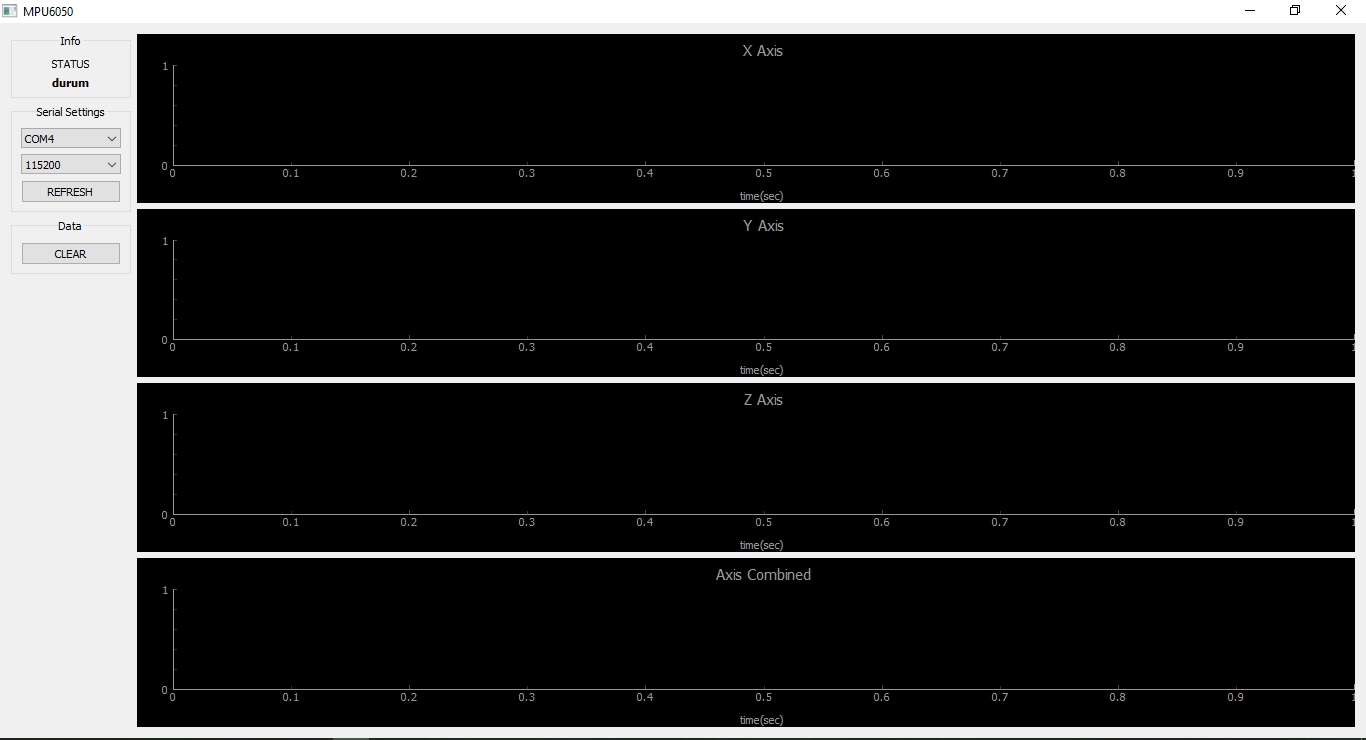
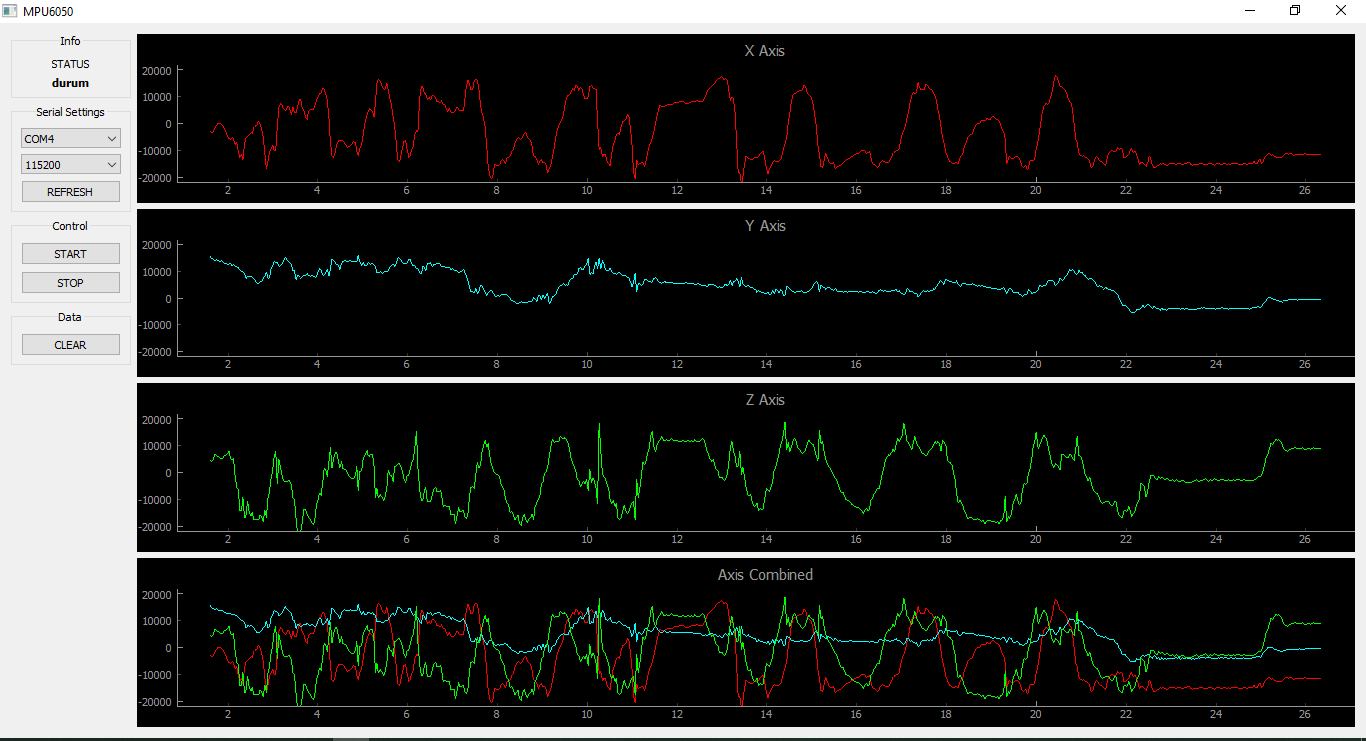
running version
to do list
add x,y,z and combine axis auto pan button
fix clear data button

diff --git a/main.py b/main.py
@@ -1,10 +1,12 @@
 import sys
 import port_lister
+import time
 from port import PortReader
 from PyQt5.QtWidgets import *
 from PyQt5.QtCore import *
 import pyqtgraph as pg
 min_width=120
+port=0
 serial_port_list=list()
 baud_rate_list=["110", "300", "600", "1200", "2400", "4800", "9600", "14400", "19200", "38400", "57600", "115200", "128000", " 256000"]
 class GuiPencere(QWidget):
@@ -49,6 +51,19 @@ class GuiPencere(QWidget):
 		self.GBSerialLayout.addWidget(self.SerialBaudrateCombo)
 		self.GBSerialLayout.addWidget(self.SerialRefreshButon)
 
+		self.GBConnect=QGroupBox("Control")
+		self.GBConnect.setAlignment(Qt.AlignCenter)
+		self.GBConnectLayout=QVBoxLayout(self)
+		self.GBConnect.setLayout(self.GBConnectLayout)
+		self.GBConnect.setMaximumWidth(min_width)
+		self.GBConnect.setMinimumWidth(min_width)
+		self.SerialConnectButon=QPushButton("START")
+		self.SerialConnectButon.clicked.connect(self.port_open_starter)
+		self.SerialDisconnectButon=QPushButton("STOP")
+		self.SerialDisconnectButon.clicked.connect(close_serial_port)
+		self.GBConnectLayout.addWidget(self.SerialConnectButon)
+		self.GBConnectLayout.addWidget(self.SerialDisconnectButon)
+
 		self.GBClear=QGroupBox("Data")
 		self.GBClear.setAlignment(Qt.AlignCenter)
 		self.GBClearLayout=QVBoxLayout(self)
@@ -58,14 +73,12 @@ class GuiPencere(QWidget):
 		self.ClearButon=QPushButton("CLEAR")
 		self.GBClearLayout.addWidget(self.ClearButon)
 
-
-
-
 		self.mainLayout.addLayout(self.vLayoutL)
 		self.mainLayout.addLayout(self.vLayoutR)
 
 		self.vLayoutL.addWidget(self.GBInfo)
 		self.vLayoutL.addWidget(self.GBSerial)
+		self.vLayoutL.addWidget(self.GBConnect)
 		self.vLayoutL.addWidget(self.GBClear)
 		self.vLayoutL.addStretch(1)
 
@@ -74,15 +87,15 @@ class GuiPencere(QWidget):
 		self.plotter3=pg.PlotWidget()
 		self.plotter4=pg.PlotWidget()
 
+		self.plotter1.setYRange(-20000,20000)
+		self.plotter2.setYRange(-20000,20000)
+		self.plotter3.setYRange(-20000,20000)
+		self.plotter4.setYRange(-20000,20000)
+
 		self.plotter1.setTitle("X Axis")
 		self.plotter2.setTitle("Y Axis")
 		self.plotter3.setTitle("Z Axis")
 		self.plotter4.setTitle("Axis Combined")
-
-		self.plotter1.setLabel("bottom","time(sec)")
-		self.plotter2.setLabel("bottom","time(sec)")
-		self.plotter3.setLabel("bottom","time(sec)")
-		self.plotter4.setLabel("bottom","time(sec)")
 
 		self.vLayoutR.addWidget(self.plotter1)
 		self.vLayoutR.addWidget(self.plotter2)
@@ -107,9 +120,6 @@ class GuiPencere(QWidget):
 
 		pg.setConfigOptions(antialias=True)
 
-		#self.timer=QTimer()
-		#self.timer.timeout.connect(self.cycle)
-		#self.timer.start(33)
 
 	def cycle(self):
 		[timeArray,AcXArray,AcYArray,AcZArray] = port.takeNpArray()
@@ -125,17 +135,26 @@ class GuiPencere(QWidget):
 		self.SerialPortCombo.clear()
 		self.SerialPortCombo.addItems(get_port_list())
 
+	def port_open_starter(self):
+		open_serial_port(self.SerialPortCombo.currentText(),int(self.SerialBaudrateCombo.currentText()))
+		self.timer=QTimer()
+		self.timer.timeout.connect(self.cycle)
+		self.timer.start(33)
+
 
 def get_port_list():
 	return port_lister.serial_ports()
 
+
+def open_serial_port(com,baudrate):
+	global port
+	port=PortReader(com,baudrate)
+
+def close_serial_port():
+	port.close()
+
 if __name__=="__main__":
-
-	
-	
-
 	uygulama=QApplication(sys.argv)
 	pencere=GuiPencere()
 	pencere.show()
 	uygulama.exec_()
-	port=PortReader(sys.argv[1],sys.argv[2])

diff --git a/port.py b/port.py
@@ -13,16 +13,15 @@ class PortReader(object):
 		self.AcXArray=list()
 		self.AcYArray=list()
 		self.AcZArray=list()
-
+		self.start_time=datetime.now()
 		try:
-			self.start_time=datetime.now()
-			self.serial_port_list=serial.tools.list_ports
 			self.sp=serial.Serial(port,baudrate,timeout=0.1)
 			self.sp.flush()
 			self.buffer_lock=threading.Lock()
 			self.thread= threading.Thread(target=self.thread_foo,args=())
 			self.thread.daemon=True
 			self.thread.start()
+			print("it's fine")
 		except Exception:
 			print("Serial port can't open!")
 			sys.exit(0)

diff --git a/port_lister.py b/port_lister.py
@@ -4,13 +4,7 @@ import serial
 
 
 def serial_ports():
-    """ Lists serial port names
-
-        :raises EnvironmentError:
-            On unsupported or unknown platforms
-        :returns:
-            A list of the serial ports available on the system
-    """
+    
     if sys.platform.startswith('win'):
         ports = ['COM%s' % (i + 1) for i in range(256)]
     elif sys.platform.startswith('linux') or sys.platform.startswith('cygwin'):
